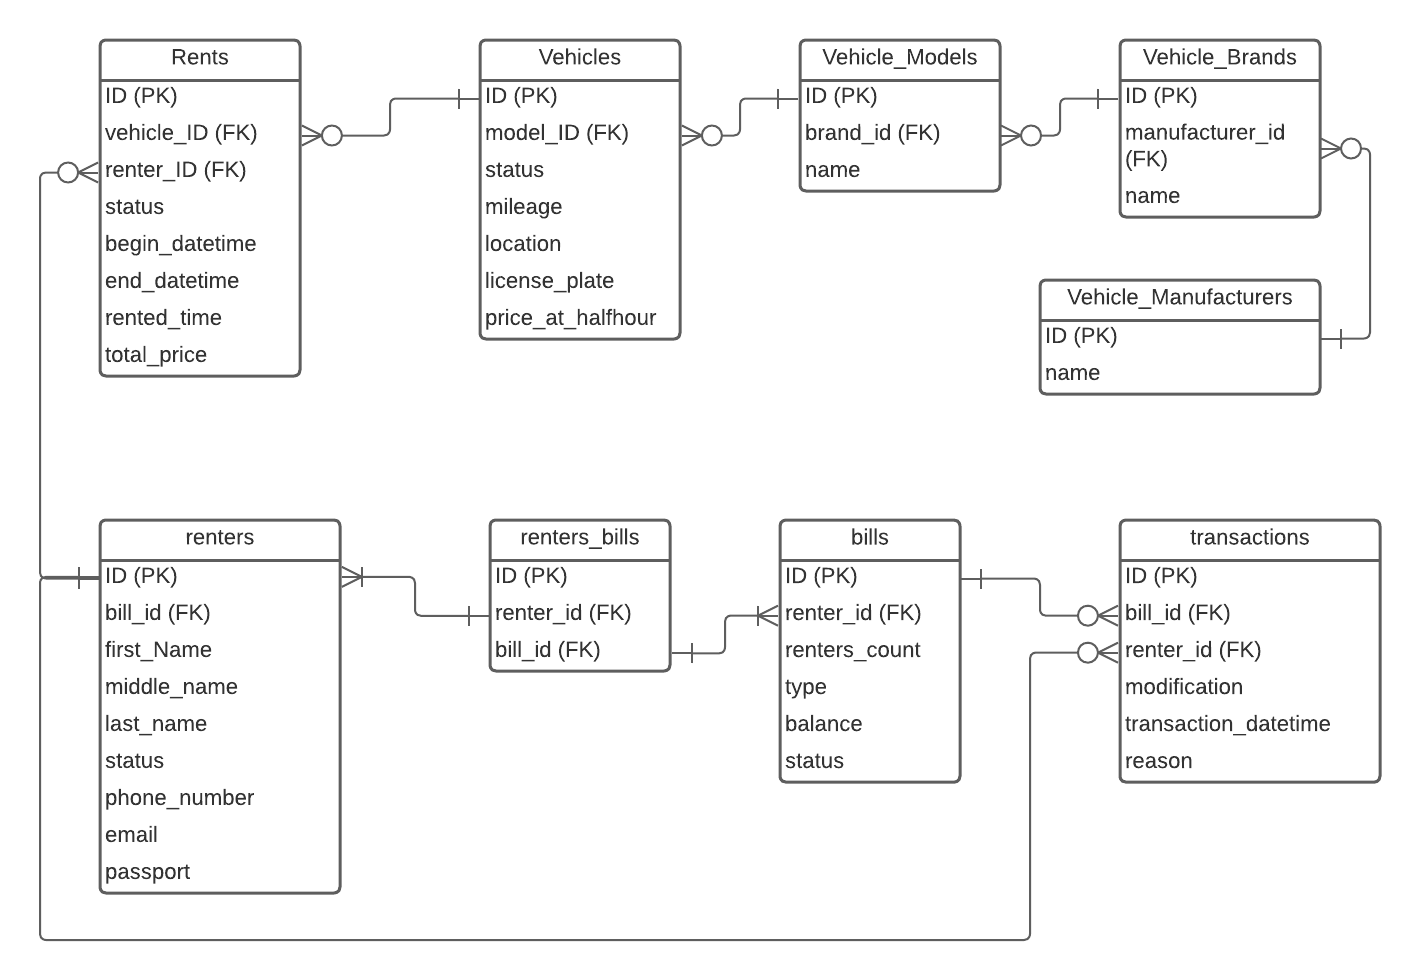
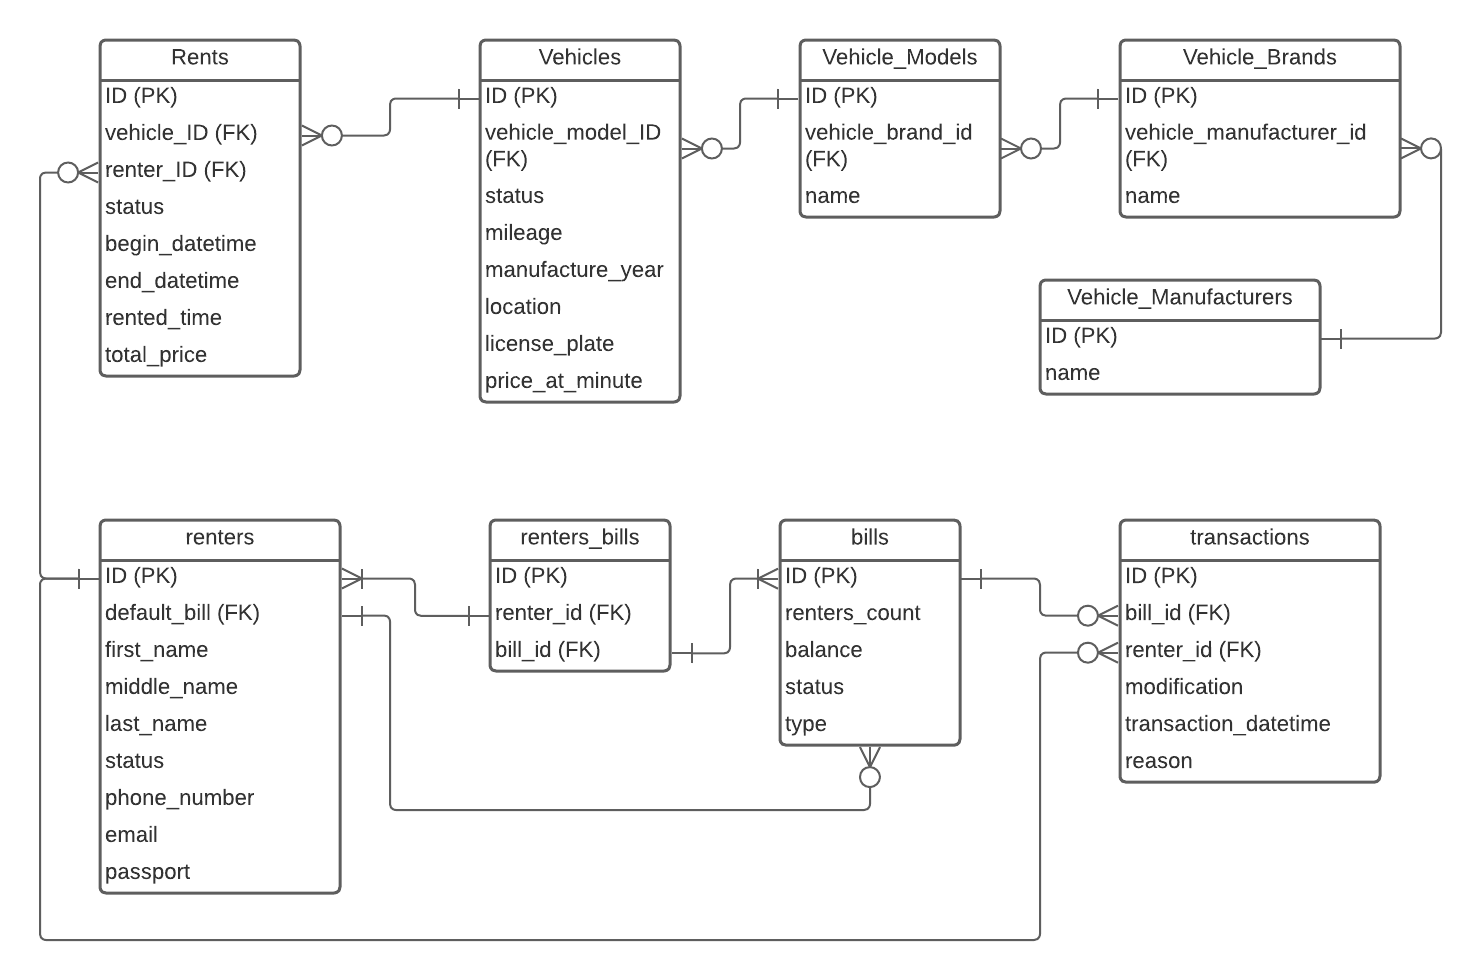
Обновил ER диаграмму и описание сущностей

diff --git a/README.md b/README.md
@@ -61,24 +61,25 @@
 #### Vehicle_brands - Бренды ТС
 
 - `ID` - первичный ключ
-- `manufacturer_id` - внешний ключ для связи с `vehicle_manufacturers`
+- `vehicle_manufacturer_id` - внешний ключ для связи с `vehicle_manufacturers`
 - `name` - название бренда ТС
 
 #### Vehicle_models - Модели ТС
 
 - `ID` - первичный ключ
-- `brand_id` - внешний ключ для связи с `vehicle_brands`
+- `vehicle_brand_id` - внешний ключ для связи с `vehicle_brands`
 - `name` - название модели ТС
 
 #### Vehicles - Транспортные средства
 
 - `ID` - первичный ключ
-- `model_id` - внешний ключ для связи с `vehicle_models`
+- `vehicle_model_id` - внешний ключ для связи с `vehicle_models`
 - `status` - статус ТС
 - `mileage` - пробег ТС
+- `manufacture_year` - год производства ТС
 - `location` - координаты ТС
 - `license_plate` - гос. номер ТС
-- `prise_at_hour` - цена за час аренды
+- `prise_at_minute` - цена за час аренды
 
 #### Rents - информация об арендах
 
@@ -94,12 +95,13 @@
 #### Renters - арендаторы
 
 - `ID` - первичный ключ
+- `default_bill` - Счет по умолчанию у пользователя (связан с таблицей `bills`)
 - `first_name` - имя
 - `middle_name` - фамилия
 - `last_name` - отчество
 - `status` - статус пользователя (активный, бан, заморожен)
-- `email` - номер телефона пользователя
-- `end_datetime` - email
+- `phone_number` - номер телефона пользователя
+- `email` - email
 - `passport` - серия и номер паспорта
 
 #### Renters_bills - Промежуточная таблица для связи "МкМ"
@@ -111,7 +113,6 @@
 #### Bills - Счета
 
 - `ID` - первичный ключ
-- `renter_id` - внешний ключ для связи с `renters`
 - `renters_count` - колличество пользователей привязаных к счету
 - `type` - тип счета
 - `balance` - баланс счета
